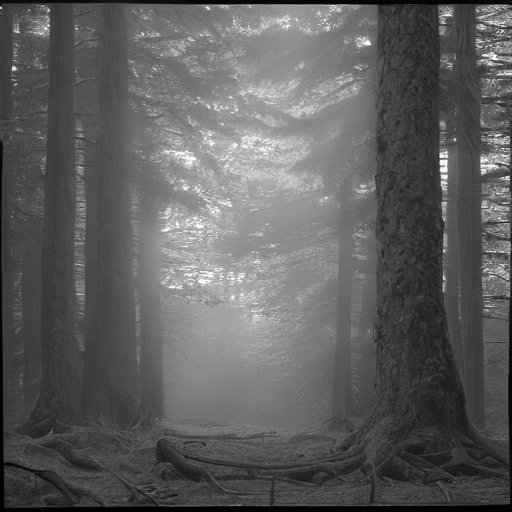
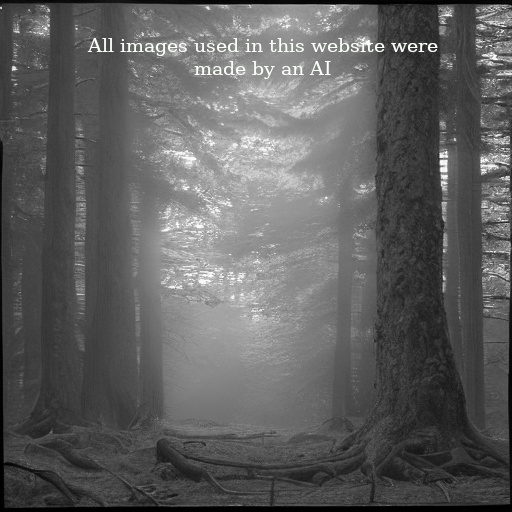
Add files via upload

Changed region(s): [[0.25, 0.0625, 0.8438, 0.1562], [0.1562, 0.0625, 0.2188, 0.125]]

diff --git a/index.css b/index.css
@@ -13,16 +13,12 @@ html{
 }
 
 #tittle{
-    width:10%;
-}
-
-span{
-    color: red;
+    width:200px;
 }
 
 nav{
     width: 100%;
-    position:fixed;
+    position:relative;
     background-image: linear-gradient(to right,white,black);
     display:flex;
     align-items: center;
@@ -56,7 +52,7 @@ a:hover{
     transition-delay: 0.1s;
 }
 
-#goodforest{
+.goodforest{
     color: white;
     font-family: 'Lato';
     font-size: xx-large;
@@ -72,29 +68,34 @@ a:hover{
         rgba(0,0,0,0.5),
         rgba(0,0,0,0.5)
     )
-    ,url("media/goodforest.png");
+    ,url("media/rainforest.png");
     background-repeat: no-repeat;
     background-size: cover;
     background-position: center center;
     transition-delay: .4s;
 }
 
+.belowtext{
+    font-size: 15px;
+    margin-top: 20px;
+    color: rgba(255, 255, 255,0.7);
+    
+}
+
 
 #question{
-    padding-top:200px;
+    margin-top:100px;
     text-align: center;
     font-family: Calibri;
     font-size:60px;
 }
 
 .box{
-    margin-top: 5%;
-    margin-left: 20%;
-    margin-right: auto;
+    padding-top: 50px;
+    margin: auto; 
     flex-direction: row;
     display: flex;
-    width: 50%;
-       
+   
 }
 
 .box2{
@@ -103,8 +104,8 @@ a:hover{
     margin-right: 10%;
     flex-direction: column;
     display: flex;
-    width: 40%;
-
+    
+    
 }
 
 .box3{
@@ -115,36 +116,38 @@ a:hover{
 }
 
 .textbox {
+    margin-top: 50px;
+    margin-left: 100px;
     flex-direction: column;
     max-width: 600px;
     text-align: initial;
-    padding-left: 100px;
     display: flex;
-    justify-content: center;
     font-family: 'Geneva';
     font-size: xx-large;
+   
+
     
 }
 
 .imgBox{
     width: 300px;
     height: auto;
-
+    margin-left: 500px;
 }
 
 .smallquestion{
-    font-size: xx-large;
+    text-align: center;
+    font-size: 35px;
     flex-direction: row;
 }
 
 .smalltextbox{
+    text-align: center;
     margin-top: 7%;
     flex-direction: column;
-    max-width: 600px;
-    justify-content: center;
     font-family: 'Geneva';
-    font-size: large;
-    flex-direction: row;
+    font-size: 25px;
+
 }
 
 #skill{
@@ -152,25 +155,35 @@ a:hover{
     font-family: 'Calibri';
     text-align: center;
     margin-top: 100px;
-    font-size:60px;
+    font-size:70px;
     
 }
 
-#imgskill{
+.imgskill{
+    display: flex;
     width: 80%;
-    margin-top: 200px;
-    margin-left: 10%;
+    height: auto;
+    margin-top: 10%;
+    margin-left: 12%;
     margin-right: auto;
 }
 
+
+#BIlink{
+    text-decoration: none;
+    color: grey;
+
+}
+
 .link{
-    margin-top: 70px;
+    font-family: 'Gill Sans';
     position: absolute;
-    left: 48%;
+    left: 50%;
     transform: translate(-50%, 50%);
     width:180px;
     height:60px;
     color:white;
+    border-radius: 10px;
     text-decoration: none;
     background-color: black;
     text-transform: uppercase;
@@ -178,9 +191,137 @@ a:hover{
     transition: 0.5s;
     text-align: center;
     font-size: 30px;
+    padding-top: 12px;
+    padding-left: 12px;
+    padding-right: 182px;
+    padding-bottom: 70px;
+
 }   
 .link:hover{
     background:grey;
-    transition-delay: 0.3s;
+    transition-delay: 0.1s;
     color: black;
+}
+
+#mail{
+    margin-top: 200px;
+    color: white;
+    font-family: 'Lato';
+    font-size: xx-large;
+    display: flex;
+    align-items: center;
+    justify-content: center;
+    text-align: center;
+    flex-direction: column;
+    height: 90vh;
+    background-image: url("media/mail.png");
+    background-repeat: no-repeat;
+    background-size: cover;
+    background-position: center center;
+    flex-direction: column;
+    
+}
+
+.sendto{
+   
+    background-color: rgba(255, 255, 255);
+    color: black;
+    border-radius: 10px;
+    border:none;
+    padding:12px 30px;
+    border-radius: 30px;
+    font-weight: 15px;
+    font-size: 25px;
+    
+}
+
+.sendto:hover{
+    background-color: rgba(0, 0, 0);
+    color: white;
+    transition: 0.3s;
+
+}
+
+.mymail{
+    background-image: url(media/code.jpeg);
+    margin-top: 100px;
+    color: white;
+    border-radius: 10px;
+    border:black;
+    padding:120px 30px;
+    border-radius: 30px;
+    font-weight: 15px;
+    font-size: 50px;
+}
+
+@media screen and (max-width:1650px){
+    .imgBox{
+        display: none;
+    }
+    .textbox{
+        text-align: center;
+        margin: auto;
+    }
+    .goodforest{
+        
+    }
+}
+@media screen and (max-width:800px){
+    .imgBox{
+        display: none;
+    }
+    #question{      
+        margin-top:20px;
+        text-align: center;
+        font-family: Calibri;
+        font-size:40px;       
+    }
+    .textbox{
+        margin-top: 10px;
+        text-align: center;
+        font-size: 20px;
+        padding: 0px 0px 0px 0px;
+        
+    }
+    .box{
+        flex-direction: column;
+        margin: auto;
+        padding: 0px 0px 0px 0px;
+    }
+    .box2{
+        flex-direction: column;
+        margin: auto;
+        padding: 0px 0px 0px 0px;
+        
+    }
+    .box3{
+        flex-direction: column;
+        margin: auto;
+       
+    }
+    .smallquestion{
+        flex-direction: column;
+        margin-top:20px;
+        text-align: center;
+        font-family: Calibri;
+        font-size:40px;  
+    }
+    .smalltextbox{
+        text-align: center;
+        font-size: 20px;
+        padding: 0px 0px 0px 0px;
+    }
+
+    #skill{
+        font-size: 50px;
+    }
+    .link{
+        
+    }
+    .sendto{
+        font-size: 15px;
+    }
+    .mymail{
+        font-size: 30px;
+    }
 }

diff --git a/index.html b/index.html
@@ -15,19 +15,20 @@
             <nav class ="hero">
                  <img id = "tittle" src="media/latologo.png" alt="LATO">
                     <ul>
-                        <li><a href="#miface">About me</a></li>
-                        <li><a href="#">Skills</a></li>
-                        <li><a href="#">Contact me</a></li>
+                        <li><a href="#question">About me</a></li>
+                        <li><a href="#skill">My skills</a></li>
+                        <li><a href="#mail">Contact me</a></li>
                     </ul>
              </nav>
     </header>
-    <p id = "goodforest">I am a 16 year old junior programmer, willing to improve my machine learning skills.</p>
+    <p class = "goodforest">I am a 16 year old junior programmer, willing to improve my machine learning skills.<span class ="belowtext">All
+        images used in this web page were created by an AI</span></p>
     <section>
-        <p id = "question">What is my story?</p>
+        <p id = "question">About me</p>
             <div class ="box">
-                <img src="media/miface.png" class ="imgBox">
+                <img class ="imgBox" src="media/miface.png">
                 <p class ="textbox">
-                    I was born in Madrid, my parents where always very restrictive with the technology ussage.
+                    I was born in Madrid, my parents where always very restrictive with the technology usage.
                     Now I appreciate all the things I can do with a computer and I will try to create useful code with the
                     passage of the years. 
                     
@@ -37,16 +38,14 @@
         <div class ="box3">
             <div class="box2">
             <p class = "smallquestion">What I am studying right now? </p>
-            <p class = "smalltextbox">Until 2024, I will be studying two bachillerato simultaneously in
-                the IES Ramiro de Maeztu in Madrid.
-                One is the traditional Lomce bachillerato however the other
-                is the international bachillerato. 
-                
+            <p class = "smalltextbox">Until 2024, I will be studying the <a id = "BIlink"href="https://www.ibo.org/">international Baccalaureate </a>  in Madrid, Spain. This bachillerato was made by the UE
+                to promote active learning, inclusive behaviours and a variety of other skills.
             </p>
             </div>
             <div class="box2">
             <p class = "smallquestion">What plans I have for the future?</p>
-            <p class = "smalltextbox">I am willing to study in a non-english speaking country</p>
+            <p class = "smalltextbox">I want to pursue an university course of engineering, study several programming languages and travel to countries
+            with a native language that is not english nor spanish.</p>
             </div>
         </div>
     
@@ -54,8 +53,16 @@
     </section>
     <section>
         <p id ="skill">My skills</p>
-        <img id ="imgskill" src="media/skills2.png">
+        <img class ="imgskill" src="media/skills2.png">
     </section>
-    <a class = "link" href ="https://www.youtube.com/watch?v=xyOc32abDQ8" >Proyects</a>
+    <section>
+    <a class = "link" href ="https://github.com/l4t8?tab=projects" >Proyects</a>
+    </section>
+    <section>
+        <div id ="mail">
+            <p class ="sendto">Send me a mail to:</p>
+            <span class = "mymail">l4t8@protonmail.com</span>
+        </div>
+    </section>
 </body>
 </html>
